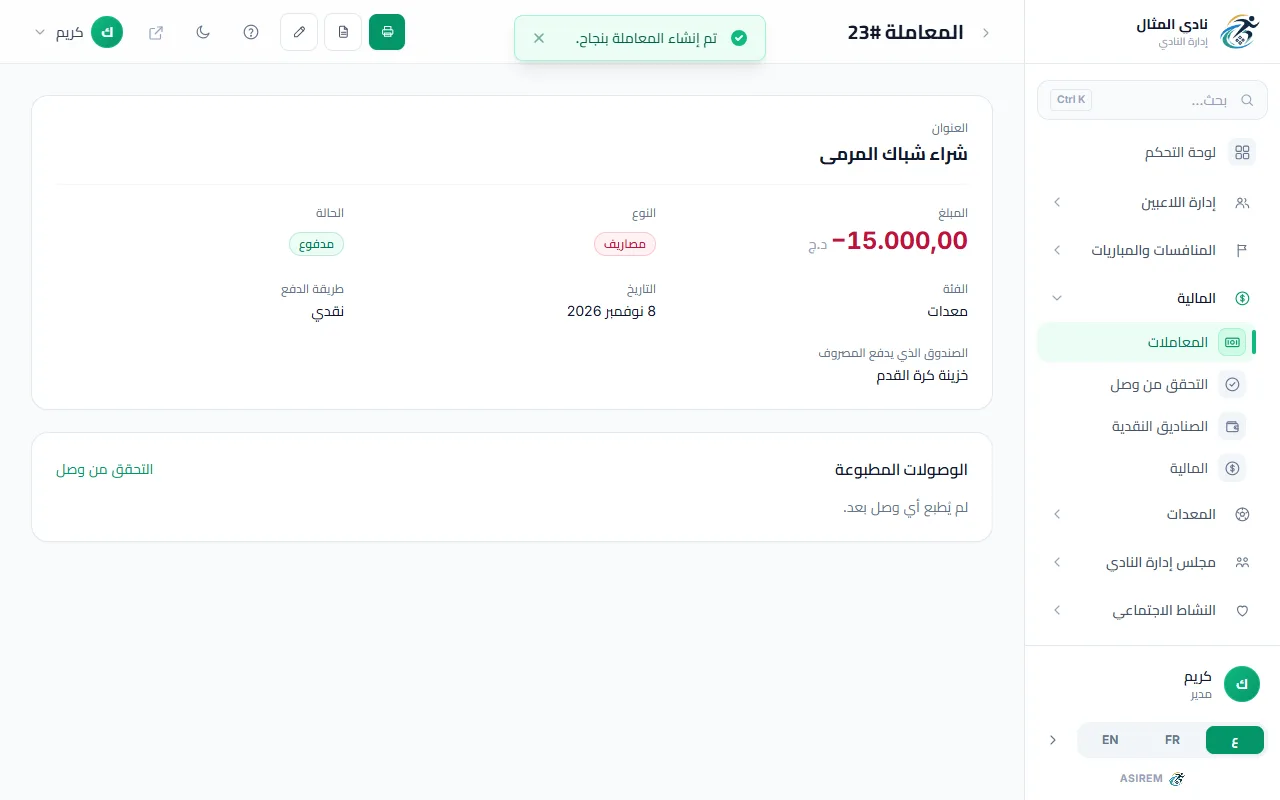
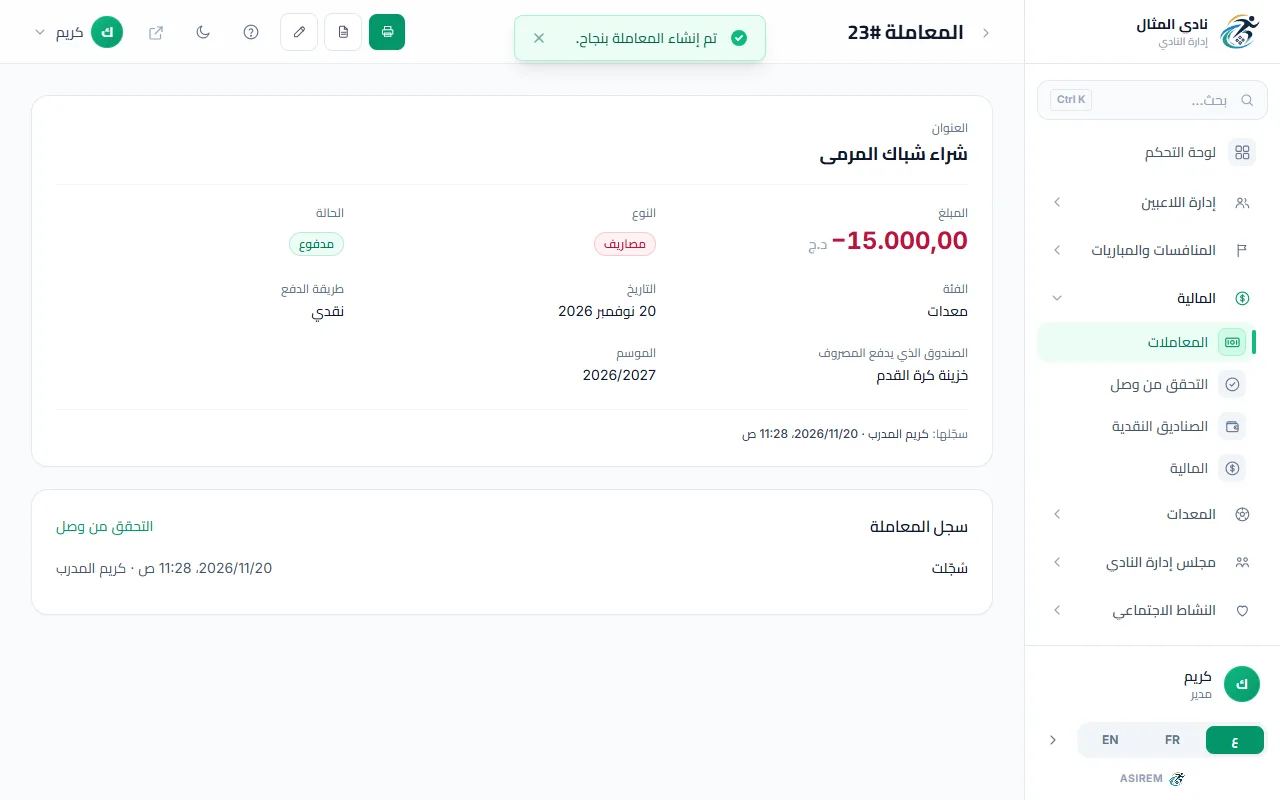
docs(help): who recorded a transaction and who edited it

diff --git a/resources/help/shots.js b/resources/help/shots.js
@@ -458,7 +458,14 @@ export default [
         name: 'receipt-tx-show',
         url: '/players/1',
         targets: ['tx-print-ticket', 'tx-print-a4', 'tx-prints'],
-        before: openAhmedTransaction,
+        before: openAhmedTransactionScrolled,
+    },
+    {
+        // أحمد's payment page: the trace line under the first card, then «سجل المعاملة».
+        name: 'fin-tx-history',
+        url: '/players/1',
+        targets: ['tx-trace', 'tx-prints'],
+        before: openAhmedTransactionScrolled,
     },
     // The page as it opens: the code field already has the focus.
     { name: 'receipt-verify', url: '/receipts/verify', targets: ['nav-receipts-verify', 'receipt-code'] },
@@ -2831,7 +2838,13 @@ async function openAhmedTransaction(page) {
     await page.goto(new URL(`/transactions/${id}`, page.url()).href, { waitUntil: 'networkidle' });
 }
 
-/** The demo ticket's code, read in clear in «الوصولات المطبوعة» of أحمد's payment page ("1234 5678 9012"). */
+/** The same page, scrolled so the history card ends at the bottom edge (it is below the fold). */
+async function openAhmedTransactionScrolled(page) {
+    await openAhmedTransaction(page);
+    await page.locator('[data-help="tx-prints"]').evaluate((el) => el.scrollIntoView({ block: 'end', behavior: 'instant' }));
+}
+
+/** The demo ticket's code, read in clear in «سجل المعاملة» of أحمد's payment page ("1234 5678 9012"). */
 async function ahmedReceiptCode(page) {
     await openAhmedTransaction(page);
     return (await page.locator('[data-help="tx-prints"] li .font-mono').first().textContent()).trim();

diff --git a/resources/help/ar/finance/transaction-history.md b/resources/help/ar/finance/transaction-history.md
@@ -1,0 +1,42 @@
+---
+title: كيف أعرف من سجّل معاملة ومن عدّلها
+summary: افتح صفحة المعاملة لترى من سجّلها ومتى، وكل تعديل أو إلغاء أو طباعة بعدها.
+module: transactions
+pages: [transactions.show, transactions.index]
+keywords: [من سجّل, سجل المعاملة, تتبع, تعديل معاملة, التاريخ والساعة, من عدّل, من ألغى, تصحيح دفعة, مراجعة]
+related: [finance/record-transaction, finance/cancel-transaction, subscriptions/receipts]
+---
+
+كل معاملة تحفظ قصتها: من سجّلها، ومتى، وما تغيّر فيها بعد ذلك.
+
+:::example
+دفع **أحمد بن علي** «اشتراك سنوي»: 3000 د.ج. نفتح صفحة دفعته لنرى من سجّلها.
+:::
+
+:::step افتح صفحة «المعاملات»
+في الهاتف، افتح القائمة أولًا بزر ☰. في القائمة، اضغط على «المعاملات» تحت «المالية». لا تراها؟ اضغط على «المالية» لتظهر. اكتب «أحمد» في خانة البحث.
+::figure receipt-tx-index ring=nav-transactions,tx-search,tx-row-first
+:::
+
+:::step اضغط على عنوان المعاملة
+اضغط على عنوان دفعة أحمد. تُفتح صفحة المعاملة.
+::figure fin-tx-history ring=tx-trace
+:::
+
+:::step اقرأ سطر «سجّلها:»
+السطر في أسفل البطاقة الأولى. فيه اسم المستخدم، ثم التاريخ والساعة. إن عُدّلت المعاملة، يظهر بجانبه «آخر تعديل:».
+::figure fin-tx-history ring=tx-trace zoom=tx-trace
+:::
+
+:::step اقرأ «سجل المعاملة»
+انزل إلى بطاقة «سجل المعاملة». كل سطر حدث واحد: تسجيل، تعديل، إلغاء، أو طباعة وصل. في كل سطر الاسم والتاريخ والساعة. سطر التعديل يكتب القيمة القديمة مشطوبة، ثم الجديدة.
+::figure fin-tx-history ring=tx-prints
+:::
+
+عُدّلت المعاملة قبل إضافة هذا السجل؟ يظهر السطر «عُدّلت» بلا تفاصيل.
+
+صُحّحت دفعة لاعب؟ الدفعة القديمة تحمل رابطًا إلى الجديدة، والجديدة رابطًا إلى القديمة.
+
+:::tip
+ترى «بصفة» بعد اسم؟ مدير دخل بحساب ذلك المستخدم. الاسم الأول هو من قام بالعمل.
+:::

diff --git a/resources/help/fr/finance/transaction-history.md b/resources/help/fr/finance/transaction-history.md
@@ -1,0 +1,42 @@
+---
+title: Comment savoir qui a enregistré une transaction et qui l'a modifiée
+summary: Ouvrez la page de la transaction pour voir qui l'a enregistrée et quand, puis chaque modification, annulation ou impression.
+module: transactions
+pages: [transactions.show, transactions.index]
+keywords: [qui a enregistré, historique de la transaction, suivi, modifier une transaction, date et heure, qui a modifié, qui a annulé, correction de paiement, contrôle]
+related: [finance/record-transaction, finance/cancel-transaction, subscriptions/receipts]
+---
+
+Chaque transaction garde son histoire : qui l'a enregistrée, quand, et ce qui a changé ensuite.
+
+:::example
+**أحمد بن علي** a payé « اشتراك سنوي » : 3000 DA. Nous ouvrons la page de son paiement pour voir qui l'a enregistré.
+:::
+
+:::step Ouvrez la page « Transactions »
+Sur téléphone, ouvrez d'abord le menu avec le bouton ☰. Dans le menu, cliquez sur « Transactions » sous « Finances ». Vous ne la voyez pas ? Cliquez sur « Finances » pour l'afficher. Tapez « أحمد » dans la zone de recherche.
+::figure receipt-tx-index ring=nav-transactions,tx-search,tx-row-first
+:::
+
+:::step Cliquez sur le titre de la transaction
+Cliquez sur le titre du paiement de أحمد. La page de la transaction s'ouvre.
+::figure fin-tx-history ring=tx-trace
+:::
+
+:::step Lisez la ligne « Enregistrée par : »
+La ligne est en bas de la première carte. Elle donne le nom de l'utilisateur, puis la date et l'heure. Si la transaction a été modifiée, « Dernière modification : » s'affiche à côté.
+::figure fin-tx-history ring=tx-trace zoom=tx-trace
+:::
+
+:::step Lisez « Historique de la transaction »
+Descendez jusqu'à la carte « Historique de la transaction ». Chaque ligne est un événement : enregistrement, modification, annulation ou impression d'un reçu. Chaque ligne porte le nom, la date et l'heure. Une modification affiche l'ancienne valeur barrée, puis la nouvelle.
+::figure fin-tx-history ring=tx-prints
+:::
+
+La transaction a été modifiée avant l'ajout de cet historique ? La ligne « Modifiée » s'affiche sans détail.
+
+Le paiement d'un joueur a été corrigé ? L'ancien paiement porte un lien vers le nouveau, et le nouveau vers l'ancien.
+
+:::tip
+Vous voyez « en tant que » après un nom ? Un administrateur s'est connecté avec le compte de cet utilisateur. Le premier nom est celui qui a fait l'action.
+:::

diff --git a/resources/help/en/finance/transaction-history.md b/resources/help/en/finance/transaction-history.md
@@ -1,0 +1,42 @@
+---
+title: How do I see who recorded a transaction and who edited it
+summary: Open the transaction's page to see who recorded it and when, then every edit, cancellation or print after that.
+module: transactions
+pages: [transactions.show, transactions.index]
+keywords: [who recorded, transaction history, tracking, edit a transaction, date and time, who edited, who cancelled, payment correction, review]
+related: [finance/record-transaction, finance/cancel-transaction, subscriptions/receipts]
+---
+
+Every transaction keeps its story: who recorded it, when, and what changed afterwards.
+
+:::example
+**أحمد بن علي** paid “اشتراك سنوي”: 3000 DZD. We open his payment's page to see who recorded it.
+:::
+
+:::step Open the “Transactions” page
+On a phone, first open the menu with the ☰ button. In the menu, click “Transactions” under “Finance”. You don't see it? Click “Finance” to show it. Type “أحمد” in the search box.
+::figure receipt-tx-index ring=nav-transactions,tx-search,tx-row-first
+:::
+
+:::step Click the transaction's title
+Click the title of أحمد's payment. The transaction's page opens.
+::figure fin-tx-history ring=tx-trace
+:::
+
+:::step Read the “Recorded by:” line
+The line is at the bottom of the first card. It gives the user's name, then the date and time. If the transaction was edited, “Last modified:” shows next to it.
+::figure fin-tx-history ring=tx-trace zoom=tx-trace
+:::
+
+:::step Read “Transaction history”
+Scroll down to the “Transaction history” card. Each line is one event: recording, edit, cancellation or receipt print. Each line carries the name, the date and the time. An edit shows the old value struck through, then the new one.
+::figure fin-tx-history ring=tx-prints
+:::
+
+Was the transaction edited before this history existed? The “Edited” line shows without detail.
+
+Was a player's payment corrected? The old payment carries a link to the new one, and the new one to the old.
+
+:::tip
+You see “as” after a name? An administrator was logged in with that user's account. The first name is the one who did the action.
+:::

diff --git a/resources/help/ar/subscriptions/receipts.md b/resources/help/ar/subscriptions/receipts.md
@@ -48,7 +48,7 @@ related: [subscriptions/take-payment, subscriptions/fix-payment]
 ::figure receipt-verify-result ring=receipt-result
 :::
 
-في أعلى كل وصل كلمة «أصلي» للطبعة الأولى. كل طبعة بعدها تكتب «نسخة رقم 2»، ثم 3، وهكذا. تذكرة أحمد هي الأصلية، فوصل A4 يكتب «نسخة رقم 2». إن أعدت فتح الوصل نفسه خلال دقيقة، لا تُحسب نسخة جديدة. في صفحة الدفعة، تحت «الوصولات المطبوعة»، تجد كل نسخة ورمزها.
+في أعلى كل وصل كلمة «أصلي» للطبعة الأولى. كل طبعة بعدها تكتب «نسخة رقم 2»، ثم 3، وهكذا. تذكرة أحمد هي الأصلية، فوصل A4 يكتب «نسخة رقم 2». إن أعدت فتح الوصل نفسه خلال دقيقة، لا تُحسب نسخة جديدة. في صفحة الدفعة، في «سجل المعاملة»، تجد كل نسخة ورمزها.
 
 النتائج الأخرى:
 

diff --git a/resources/help/fr/subscriptions/receipts.md b/resources/help/fr/subscriptions/receipts.md
@@ -48,7 +48,7 @@ Le ticket de أحمد est « Valide » : il a été imprimé par l'application e
 ::figure receipt-verify-result ring=receipt-result
 :::
 
-En haut de chaque reçu, le mot « ORIGINAL » marque la première impression. Chaque impression suivante porte « DUPLICATA N° 2 », puis 3, et ainsi de suite. Le ticket de أحمد est l'original, donc le reçu A4 porte « DUPLICATA N° 2 ». Si vous rouvrez le même reçu dans la minute, aucune nouvelle copie n'est comptée. Sur la page du paiement, sous « Reçus imprimés », vous trouvez chaque copie et son code.
+En haut de chaque reçu, le mot « ORIGINAL » marque la première impression. Chaque impression suivante porte « DUPLICATA N° 2 », puis 3, et ainsi de suite. Le ticket de أحمد est l'original, donc le reçu A4 porte « DUPLICATA N° 2 ». Si vous rouvrez le même reçu dans la minute, aucune nouvelle copie n'est comptée. Sur la page du paiement, dans « Historique de la transaction », vous trouvez chaque copie et son code.
 
 Les autres résultats :
 

diff --git a/resources/help/en/subscriptions/receipts.md b/resources/help/en/subscriptions/receipts.md
@@ -48,7 +48,7 @@ The button is next to the box. The result appears under it.
 ::figure receipt-verify-result ring=receipt-result
 :::
 
-At the top of each receipt, the word “ORIGINAL” marks the first print. Every print after it says “DUPLICATE No. 2”, then 3, and so on. أحمد's ticket is the original, so the A4 receipt says “DUPLICATE No. 2”. If you reopen the same receipt within a minute, no new copy is counted. On the payment's page, under “Printed receipts”, you find every copy and its code.
+At the top of each receipt, the word “ORIGINAL” marks the first print. Every print after it says “DUPLICATE No. 2”, then 3, and so on. أحمد's ticket is the original, so the A4 receipt says “DUPLICATE No. 2”. If you reopen the same receipt within a minute, no new copy is counted. On the payment's page, in “Transaction history”, you find every copy and its code.
 
 The other results:
 
